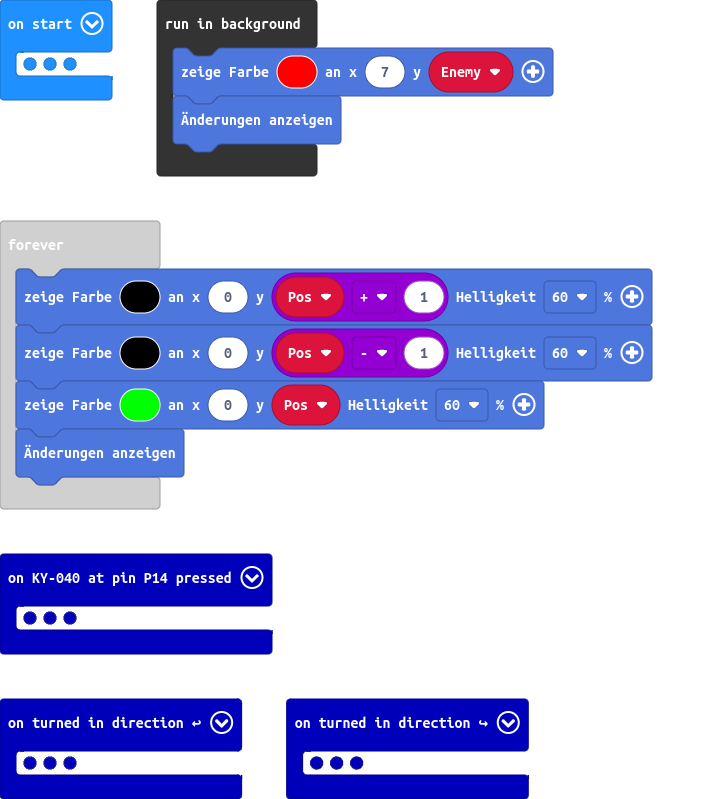
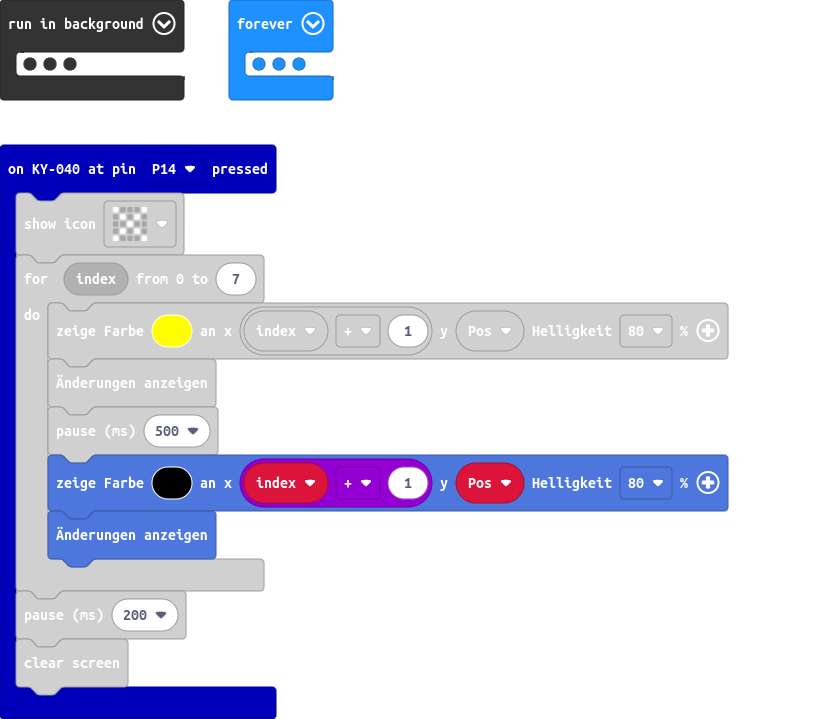
make shot single pixel by draw / undraw

diff --git a/main.ts b/main.ts
@@ -4,6 +4,8 @@ KY040.OnPinPressed(DigitalPin.P14, function () {
         callimatrix.SetMatrixColorbright(0xffff00, index + 1, Pos, cbrightness.hp2)
         callimatrix.callimatrix_show()
         basic.pause(500)
+        callimatrix.SetMatrixColorbright(0x000000, index + 1, Pos, cbrightness.hp2)
+        callimatrix.callimatrix_show()
     }
     basic.pause(200)
     basic.clearScreen()
